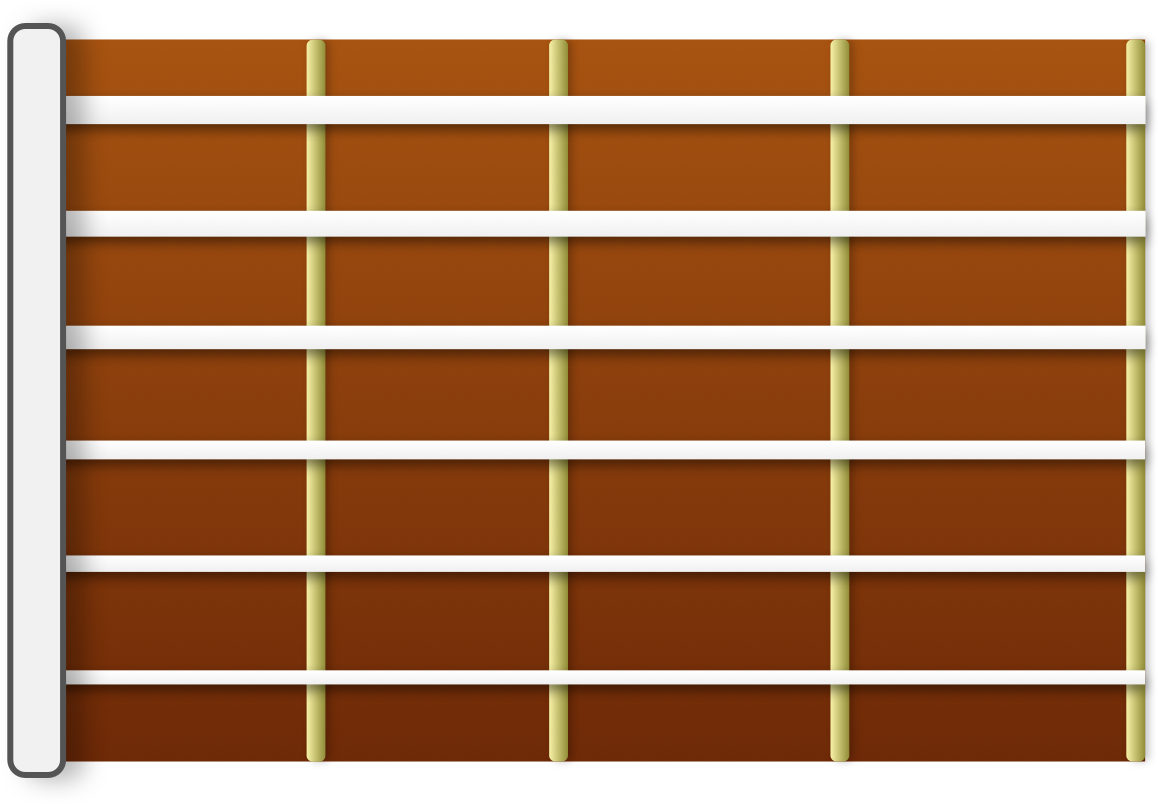
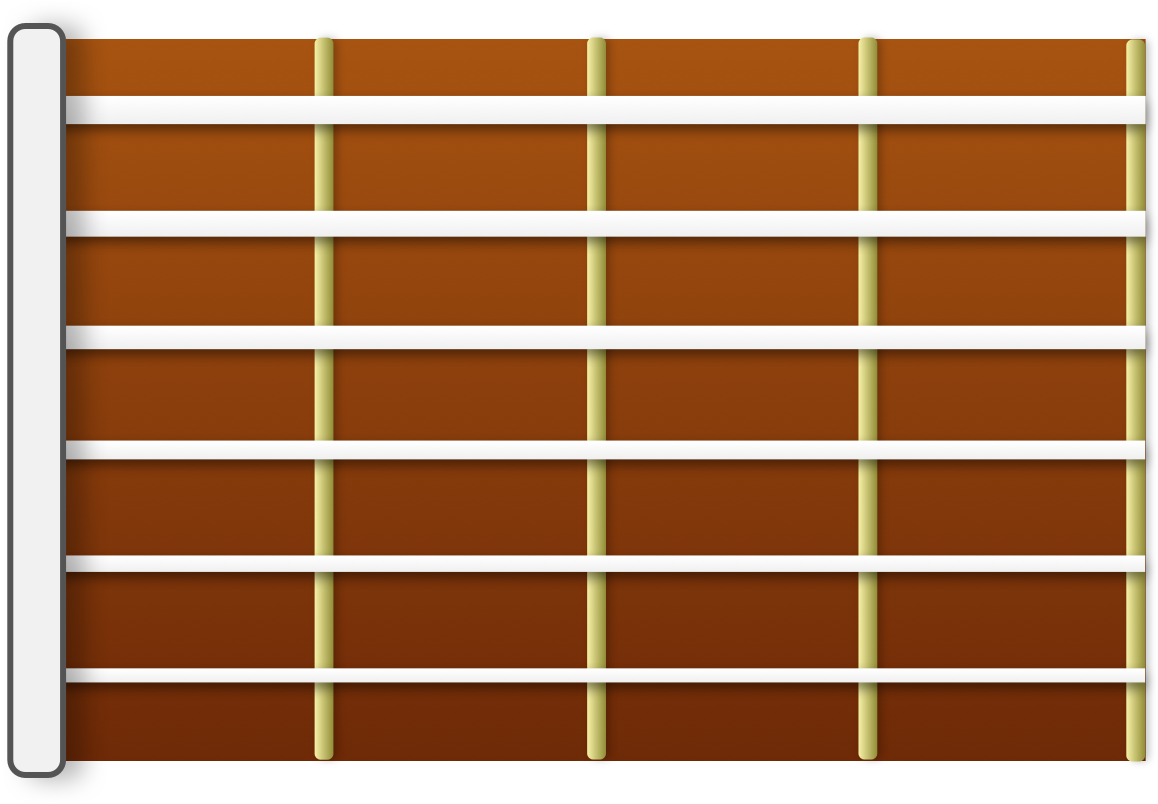
fret with equal width spaces

diff --git a/css/style.css b/css/style.css
@@ -162,7 +162,7 @@ header .header-links a:first-child{margin-left: 0;}
 .fret-area .line:nth-child(4){}
 .fret-area .line:nth-child(5){}
 .fret-area .line:nth-child(6){height: 61px;}
-.fret-area .line .dot:nth-child(1){margin: 4px 80px 0 70px;}
+.fret-area .line .dot:nth-child(1){margin: 4px 85px 0 75px;}
 .fret-area .line .dot:nth-child(2){margin: 3px 90px 0 0px;}
 .fret-area .line .dot:nth-child(3){margin: 3px 90px 0 0px;}
 .fret-area .line .dot:nth-child(4){}
@@ -177,23 +177,25 @@ header .header-links a:first-child{margin-left: 0;}
 .fret-area .line:nth-child(6) .dot{margin-top: 8px;}
 
 .fret-with-video.smaller .dominant-hand-select{bottom: -36px;}
-.fret-with-video.smaller .fret-area .line{height: 50px;padding-left: 104px;}
+.fret-with-video.smaller .fret-area .line{height: 50px;padding-left: 107px;}
 .fret-with-video.smaller .fret-area .line:nth-child(1){margin-top: 21px;}
 .fret-with-video.smaller .fret-area .line:nth-child(2){}
 .fret-with-video.smaller .fret-area .line:nth-child(3){}
 .fret-with-video.smaller .fret-area .line:nth-child(4){}
 .fret-with-video.smaller .fret-area .line:nth-child(5){}
 .fret-with-video.smaller .fret-area .line:nth-child(6){}
-.fret-with-video.smaller .fret-area .line:nth-child(1) .dot{margin: 4px 72px 0 0px;}
-.fret-with-video.smaller .fret-area .line:nth-child(2) .dot{margin: 4px 72px 0 0px;}
-.fret-with-video.smaller .fret-area .line:nth-child(3) .dot{margin: 1px 72px 0 0px;}
-.fret-with-video.smaller .fret-area .line:nth-child(4) .dot{margin: -1px 72px 0 0px;}
-.fret-with-video.smaller .fret-area .line:nth-child(5) .dot{margin: -4px 72px 0 0px;}
-.fret-with-video.smaller .fret-area .line:nth-child(6) .dot{margin: -7px 72px 0 0px;}
+.fret-with-video.smaller .fret-area .line:nth-child(1) .dot{margin: 4px 77px 0 0px;}
+.fret-with-video.smaller .fret-area .line:nth-child(2) .dot{margin: 4px 77px 0 0px;}
+.fret-with-video.smaller .fret-area .line:nth-child(3) .dot{margin: 1px 77px 0 0px;}
+.fret-with-video.smaller .fret-area .line:nth-child(4) .dot{margin: -1px 77px 0 0px;}
+.fret-with-video.smaller .fret-area .line:nth-child(5) .dot{margin: -4px 77px 0 0px;}
+.fret-with-video.smaller .fret-area .line:nth-child(6) .dot{margin: -7px 77px 0 0px;}
 .fret-with-video.smaller .fret-area .line .dot{width: 37px;height: 37px;}
 .fret-with-video.smaller .fret-area .line .dot:nth-child(1){}
 .fret-with-video.smaller .fret-area .line .dot:nth-child(2){margin-left: -5px;}
-.fret-with-video.smaller .fret-area .line .dot:nth-child(3){}
+.fret-with-video.smaller .fret-area .line .dot:nth-child(3){
+    margin-right: 65px;
+}
 .fret-with-video.smaller .fret-area .line .dot:nth-child(4){margin-left: 13px;margin-right: 0;}
 
 .dominant-hand-select{position: absolute;left: 50%;bottom: 9px;margin-left: -121px;}
@@ -282,6 +284,9 @@ header .header-links a:first-child{margin-left: 0;}
 }
 
 @media only screen and (max-width : 1200px) {
+  .fret-with-video.smaller .fret-area .line .dot:nth-child(3){
+    margin-right: 65px !important;
+}
   .fret-with-video.smaller .fret-area{height: 320px !important;}
   .fret-with-video.smaller .fret-area .line{padding-left: 64px;}
   .player-top-btns .view-songs.input-visible.results-visible~.song-list-holder .song-list{margin-left: 0;}
@@ -304,9 +309,9 @@ header .header-links a:first-child{margin-left: 0;}
   .fret-area .line:nth-child(5) .dot{margin-top: 0 !important;}
   .fret-area .line:nth-child(6) .dot{margin-top: 0 !important;}
   .fret-area .line{height: 30px !important;}
-  .fret-area .line .dot:nth-child(1){margin-right: 57px !important;}
-  .fret-area .line .dot:nth-child(2){margin-right: 70px !important;}
-  .fret-area .line .dot:nth-child(3){margin-right: 75px !important;}
+  .fret-area .line .dot:nth-child(1){margin-right: 73px !important;margin-left: 63px;}
+  .fret-area .line .dot:nth-child(2){margin-right: 79px !important;}
+  .fret-area .line .dot:nth-child(3){margin-right: 73px !important;}
   .fret-area .line .dot:nth-child(4) !important{}
   .fret-area .line .dot:nth-child(5) !important{}
   .fret-area .line .dot:nth-child(6) !important{}
@@ -314,7 +319,7 @@ header .header-links a:first-child{margin-left: 0;}
 }
 
 @media only screen and (max-width : 992px) {
-  .fret-with-video.smaller .fret-area .line .dot:nth-child(1){margin-right: 66px !important;}
+  .fret-with-video.smaller .fret-area .line .dot:nth-child(1){margin-right: 75px !important;}
   .fret-with-video.smaller .dominant-hand-select{bottom: 10px;}
   .fret-with-video.smaller .fret-area{height: 360px !important;}
   .fret-with-video.smaller{height: auto;}
@@ -419,11 +424,11 @@ header .header-links a:first-child{margin-left: 0;}
   .fret-with-video .fret-area .line:nth-child(3){margin-top: 10px !important;}
   .fret-with-video .fret-area .line:nth-child(4){margin-top: 10px !important;}
   .fret-with-video .fret-area .line:nth-child(5){margin-top: 8px !important;}
-  .fret-with-video .fret-area .line:nth-child(6){margin-top: 11px !important;}
+  .fret-with-video .fret-area .line:nth-child(6){margin-top: 9px !important;}
   .fret-with-video .fret-area .line .dot{}
-  .fret-with-video .fret-area .line .dot:nth-child(1){margin-right: 54px !important;margin-left: 48px !important;}
-  .fret-with-video .fret-area .line .dot:nth-child(2){margin-right: 55px !important;}
-  .fret-with-video .fret-area .line .dot:nth-child(3){margin-right: 65px !important;}
+  .fret-with-video .fret-area .line .dot:nth-child(1){margin-right: 59px !important;margin-left: 50px !important;}
+  .fret-with-video .fret-area .line .dot:nth-child(2){margin-right: 59px !important;}
+  .fret-with-video .fret-area .line .dot:nth-child(3){margin-right: 61px !important;}
   .fret-with-video .fret-area .line .dot:nth-child(4){}
   .fret-with-video{}
   .fret-with-video.smaller .fret-area .line .dot{width: 30px !important;height: 30px !important;}
@@ -468,9 +473,9 @@ header .header-links a:first-child{margin-left: 0;}
   .fret-with-video.smaller .fret-area .line .dot{width: 30px !important;height: 30px !important;}
   .fret-with-video.smaller .fret-area{background-size: 100% !important;height: 275px !important;}
   .fret-with-video.smaller .fret-area .line{padding-left: 42px;}
-  .fret-with-video.smaller .fret-area .line .dot:nth-child(1){margin-right: 46px !important;}
-  .fret-with-video.smaller .fret-area .line .dot:nth-child(2){margin-right: 48px !important;}
-  .fret-with-video.smaller .fret-area .line .dot:nth-child(3){margin-right: 44px !important;}
+  .fret-with-video.smaller .fret-area .line .dot:nth-child(1){margin-right: 52px !important;}
+  .fret-with-video.smaller .fret-area .line .dot:nth-child(2){margin-right: 53px !important;}
+  .fret-with-video.smaller .fret-area .line .dot:nth-child(3){margin-right: 36px !important;}
   .fret-with-video.smaller .fret-area .line .dot:nth-child(4){margin-right: 0 !important;}
   .fret-with-video.smaller .fret-area .line:nth-child(1){margin-top: 17px !important;}
   .fret-with-video.smaller .fret-area .line:nth-child(2){margin-top: 3px !important;}
@@ -487,9 +492,9 @@ header .header-links a:first-child{margin-left: 0;}
   .fret-with-video .fret-area .line:nth-child(5){margin-top: 4px !important;}
   .fret-with-video .fret-area .line:nth-child(6){margin-top: 3px !important;}
   .fret-with-video .fret-area .line .dot{width: 30px !important;height: 30px !important;}
-  .fret-with-video .fret-area .line .dot:nth-child(1){margin-right: 42px !important;margin-left: 42px !important;}
-  .fret-with-video .fret-area .line .dot:nth-child(2){margin-right: 46px !important;}
-  .fret-with-video .fret-area .line .dot:nth-child(3){margin-right: 55px !important;}
+  .fret-with-video .fret-area .line .dot:nth-child(1){margin-right: 48px !important;margin-left: 44px !important;}
+  .fret-with-video .fret-area .line .dot:nth-child(2){margin-right: 49px !important;}
+  .fret-with-video .fret-area .line .dot:nth-child(3){margin-right: 50px !important;}
   .fret-with-video .fret-area .line .dot:nth-child(4){}
   header .logo img{width: 60px;}
   header .logo{margin: 13px 0;}
@@ -518,15 +523,15 @@ header .header-links a:first-child{margin-left: 0;}
   .fret-with-video .fret-area .line:nth-child(6){margin-top: 0px !important;}
   .fret-with-video .fret-area .line .dot{width: 27px !important;height: 27px !important;}
   .fret-with-video .fret-area .line .dot:nth-child(1){margin-right: 38px !important;margin-left: 35px !important;}
-  .fret-with-video .fret-area .line .dot:nth-child(2){margin-right: 40px !important;}
-  .fret-with-video .fret-area .line .dot:nth-child(3){margin-right: 50px !important;}
+  .fret-with-video .fret-area .line .dot:nth-child(2){margin-right: 48px !important;}
+  .fret-with-video .fret-area .line .dot:nth-child(3){margin-right: 45px !important;}
   .fret-with-video .fret-area .line .dot:nth-child(4){}
   .fret-with-video{}
   .fret-with-video.smaller .fret-area .line .dot{width: 25px !important;height: 25px !important;}
   .fret-with-video.smaller .fret-area{background-size: 100% !important;height: 255px !important;}
-  .fret-with-video.smaller .fret-area .line{padding-left: 37px;}
+  .fret-with-video.smaller .fret-area .line{padding-left: 39px;}
   .fret-with-video.smaller .fret-area .line .dot:nth-child(1){margin-right: 46px !important;}
-  .fret-with-video.smaller .fret-area .line .dot:nth-child(2){margin-right: 43px !important;}
+  .fret-with-video.smaller .fret-area .line .dot:nth-child(2){margin-right: 46px !important;}
   .fret-with-video.smaller .fret-area .line .dot:nth-child(3){margin-right: 35px !important;}
   .fret-with-video.smaller .fret-area .line .dot:nth-child(4){margin-right: 0 !important;}
   .fret-with-video.smaller .fret-area .line:nth-child(1){margin-top: 14px !important;}
